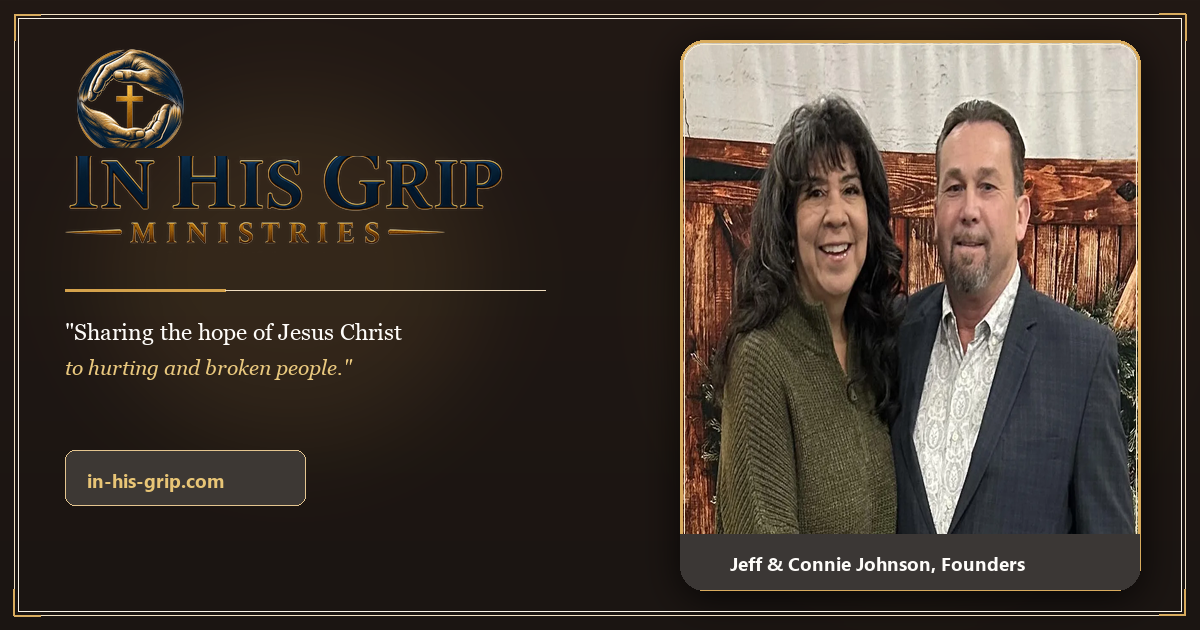
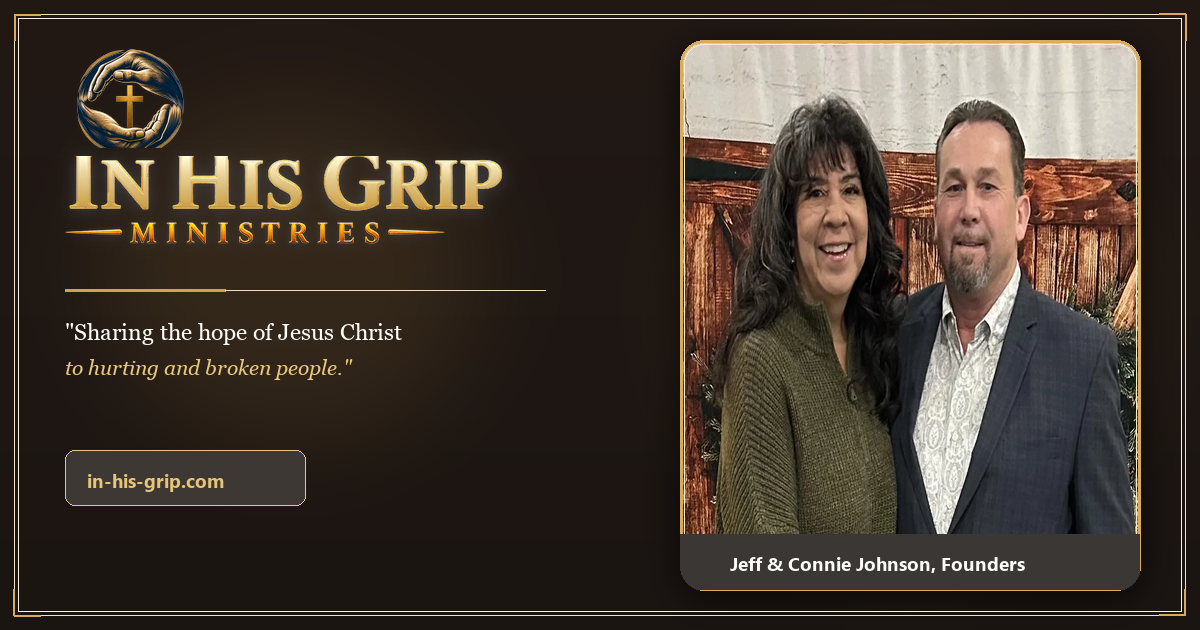
fix(og-image): brighten IN HIS GRIP and MINISTRIES text with radiant 3D gold luster and drop shadow

Changed region(s): [[0.0617, 0.2413, 0.4317, 0.3921]]

diff --git a/create_og_images.py b/create_og_images.py
@@ -8,8 +8,8 @@ out_dir = r'e:\AntiGravity\in-his-grip-ministries\images'
 
 photo_path = os.path.join(img_dir, '607191935_1809585089791912_7794484343929429084_n_result.webp')
 emblem_path = os.path.join(remotion_pub, 'emblem.png')
-title_path = os.path.join(r'e:\AntiGravity\in-his-grip-ministries', 'title_clean.png')
-min_path = os.path.join(r'e:\AntiGravity\in-his-grip-ministries', 'min_clean.png')
+title_path = os.path.join(r'e:\AntiGravity\in-his-grip-ministries', 'title_gold_3d.png')
+min_path = os.path.join(r'e:\AntiGravity\in-his-grip-ministries', 'min_gold_bright.png')
 
 photo = Image.open(photo_path).convert('RGBA')
 emblem = Image.open(emblem_path).convert('RGBA')
@@ -109,15 +109,25 @@ def create_variant_1():
     card.paste((0, 0, 0, 150), (0, 0), shadow_mask)
     card.paste(emb_scaled, (col_x, 44), emb_scaled)
 
-    # 2. Title & Ministries
+    # 2. Title & Ministries (with crisp drop shadow)
     title_target_w = 390
     title_target_h = int(title.height * (title_target_w / title.width))
     title_scaled = title.resize((title_target_w, title_target_h), Image.Resampling.LANCZOS)
+    
+    t_shadow = Image.new('RGBA', (W, H), (0, 0, 0, 0))
+    t_shadow.paste(title_scaled, (col_x, 150), title_scaled)
+    t_shadow_mask = t_shadow.split()[3].filter(ImageFilter.GaussianBlur(8))
+    card.paste((0, 0, 0, 180), (0, 0), t_shadow_mask)
     card.paste(title_scaled, (col_x, 148), title_scaled)
 
     min_target_w = 340
     min_target_h = int(ministries.height * (min_target_w / ministries.width))
     min_scaled = ministries.resize((min_target_w, min_target_h), Image.Resampling.LANCZOS)
+    
+    m_shadow = Image.new('RGBA', (W, H), (0, 0, 0, 0))
+    m_shadow.paste(min_scaled, (col_x, 214), min_scaled)
+    m_shadow_mask = m_shadow.split()[3].filter(ImageFilter.GaussianBlur(6))
+    card.paste((0, 0, 0, 180), (0, 0), m_shadow_mask)
     card.paste(min_scaled, (col_x, 212), min_scaled)
 
     # 3. Gold divider line
@@ -219,11 +229,21 @@ def create_variant_2():
     title_target_w = 440
     title_target_h = int(title.height * (title_target_w / title.width))
     title_scaled = title.resize((title_target_w, title_target_h), Image.Resampling.LANCZOS)
+    
+    t_shadow2 = Image.new('RGBA', (W, H), (0, 0, 0, 0))
+    t_shadow2.paste(title_scaled, (col_x, 158), title_scaled)
+    t_shadow_mask2 = t_shadow2.split()[3].filter(ImageFilter.GaussianBlur(8))
+    card.paste((0, 0, 0, 180), (0, 0), t_shadow_mask2)
     card.paste(title_scaled, (col_x, 156), title_scaled)
 
     min_target_w = 380
     min_target_h = int(ministries.height * (min_target_w / ministries.width))
     min_scaled = ministries.resize((min_target_w, min_target_h), Image.Resampling.LANCZOS)
+    
+    m_shadow2 = Image.new('RGBA', (W, H), (0, 0, 0, 0))
+    m_shadow2.paste(min_scaled, (col_x, 224), min_scaled)
+    m_shadow_mask2 = m_shadow2.split()[3].filter(ImageFilter.GaussianBlur(6))
+    card.paste((0, 0, 0, 180), (0, 0), m_shadow_mask2)
     card.paste(min_scaled, (col_x, 222), min_scaled)
 
     draw.line([(col_x, 290), (col_x + 160, 290)], fill=(212, 162, 76, 255), width=3)
